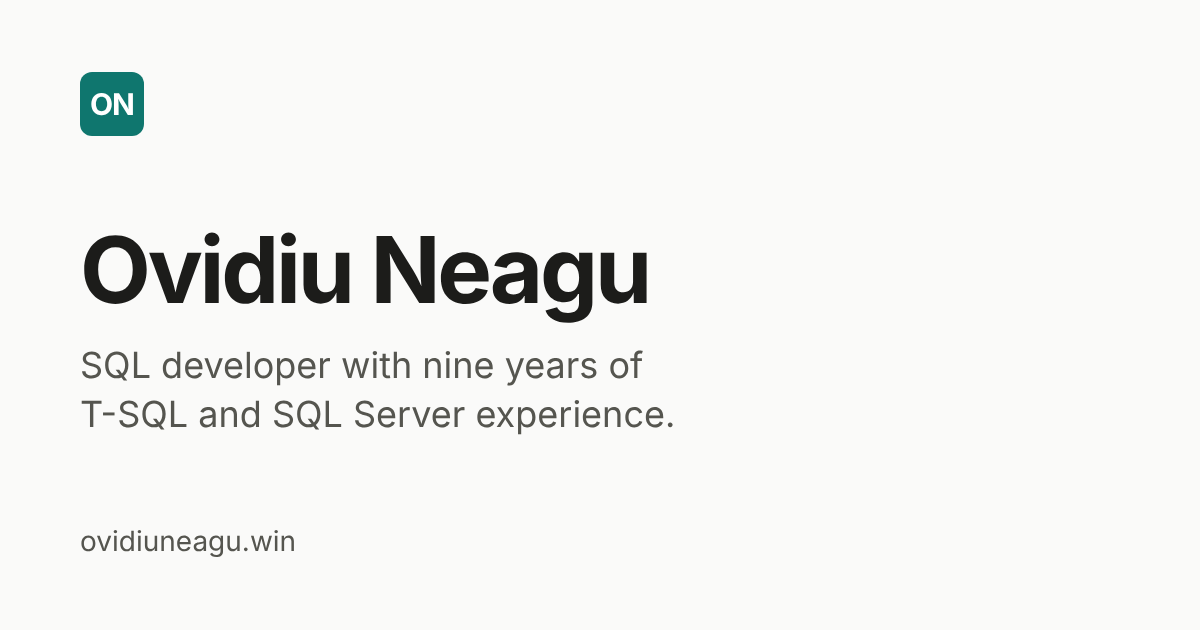
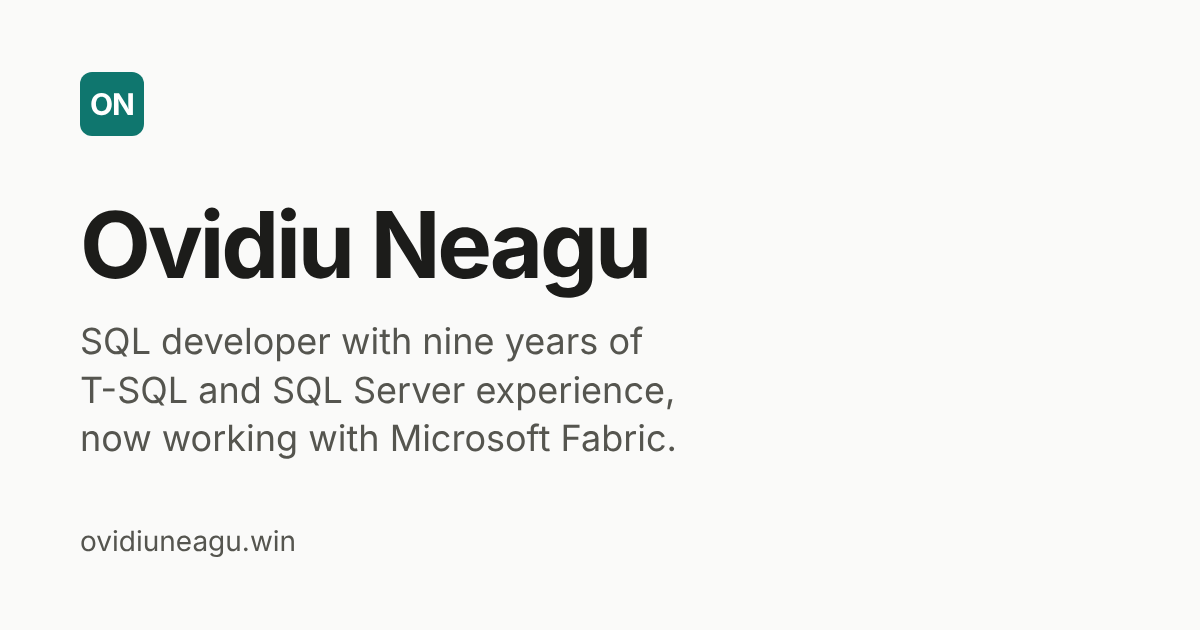
Update Fabric wording to reflect hands-on work
Claude-Session: https://claude.ai/code/session_01BZHxugPtttYHsAUuFhTChi

Changed region(s): [[0.0617, 0.3317, 0.555, 0.7238]]

diff --git a/index.html b/index.html
@@ -4,7 +4,7 @@
   <meta charset="utf-8">
   <meta name="viewport" content="width=device-width, initial-scale=1">
   <title>Ovidiu Neagu | SQL Developer</title>
-  <meta name="description" content="SQL developer with nine years of T-SQL and SQL Server experience, currently learning Microsoft Fabric. Based in London.">
+  <meta name="description" content="SQL developer with nine years of T-SQL and SQL Server experience, now working with Microsoft Fabric. Based in London.">
   <meta name="color-scheme" content="light dark">
   <meta name="theme-color" content="#fafaf9" media="(prefers-color-scheme: light)">
   <meta name="theme-color" content="#131312" media="(prefers-color-scheme: dark)">
@@ -13,14 +13,14 @@
   <link rel="icon" href="favicon.ico" sizes="48x48">
   <link rel="apple-touch-icon" href="apple-touch-icon.png">
   <meta property="og:title" content="Ovidiu Neagu | SQL Developer">
-  <meta property="og:description" content="SQL developer with nine years of T-SQL and SQL Server experience, currently learning Microsoft Fabric.">
+  <meta property="og:description" content="SQL developer with nine years of T-SQL and SQL Server experience, now working with Microsoft Fabric.">
   <meta property="og:type" content="website">
   <meta property="og:url" content="https://ovidiuneagu.win/">
   <meta property="og:site_name" content="Ovidiu Neagu">
   <meta property="og:image" content="https://ovidiuneagu.win/og.png">
   <meta property="og:image:width" content="1200">
   <meta property="og:image:height" content="630">
-  <meta property="og:image:alt" content="Ovidiu Neagu, SQL developer with nine years of T-SQL and SQL Server experience.">
+  <meta property="og:image:alt" content="Ovidiu Neagu, SQL developer with nine years of T-SQL and SQL Server experience, now working with Microsoft Fabric.">
   <meta name="twitter:card" content="summary_large_image">
   <script>
     /* Runs before first paint: restores the saved theme and marks JS as available. */
@@ -54,7 +54,7 @@
   <main id="main">
     <section class="hero wrap" id="top">
       <div class="hero-text">
-        <h1>SQL developer, currently learning Microsoft Fabric.</h1>
+        <h1>SQL developer, now working with Microsoft Fabric.</h1>
         <p class="lead">I have worked with <span class="nowrap">T-SQL</span> and <span class="nowrap">SQL Server</span> for nine years. I live in London.</p>
         <div class="actions">
           <a class="btn btn-primary" href="#contact">Get in touch</a>
@@ -76,8 +76,8 @@
           <p>I build ETL and reporting with SSIS, SSRS, Informatica and Azure Data Factory, and I help analysts with Power BI. I use Python with Pandas for scripts.</p>
         </div>
         <div>
-          <h3>Learning now</h3>
-          <p>I am learning Microsoft Fabric alongside my day job.</p>
+          <h3>Microsoft Fabric</h3>
+          <p>I have built a lakehouse, a warehouse and a pipeline in Fabric while preparing for the DP-700 exam.</p>
         </div>
         <div class="skill-wide">
           <h3>Languages</h3>
